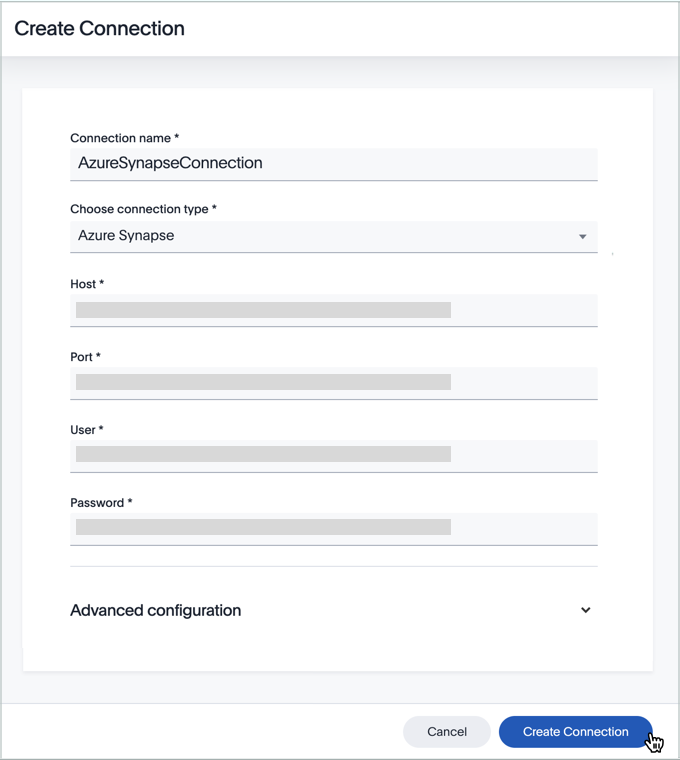
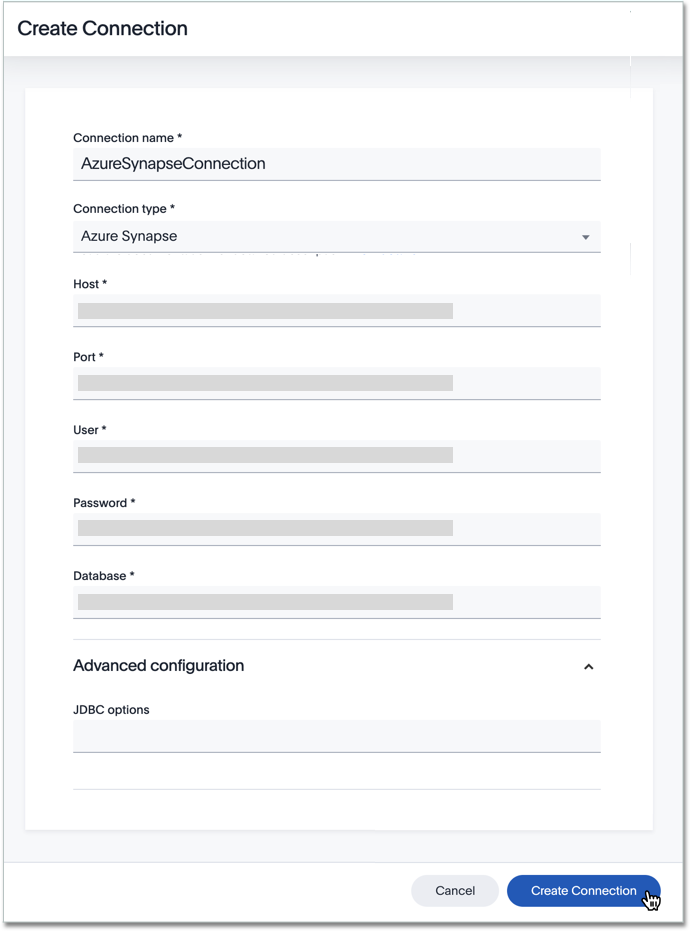
SCAL-62522 update azure synapse connections

diff --git a/_data-integrate/dataflow/dataflow-azure-synapse-reference.md b/_data-integrate/dataflow/dataflow-azure-synapse-reference.md
@@ -26,8 +26,9 @@ Here is a list of the fields for an Azure Synapse connection in ThoughtSpot Data
 <dl id="dataflow-azure-synapse-sync-properties">
 <dlentry id="dataflow-azure-synapse-sync-data-extraction-mode"><dt>Data extraction mode</dt><dd id="data-extraction-mode-description">Specify the extraction type.</dd><dd id="data-extraction-mode-required">Mandatory field.</dd><dd id="data-extraction-mode-example"><strong>Example:</strong><br/>BCP</dd><dd id="data-extraction-mode-valid-values"><strong>Valid Values:</strong><br/>JDBC, BCP</dd><dd id="data-extraction-mode-default"><strong>Default:</strong><br/>JDBC</dd></dlentry>
 <dlentry id="dataflow-azure-synapse-sync-column-delimiter"><dt>Column delimiter</dt><dd id="column-delimiter-description">Specify the column delimiter character.</dd><dd id="column-delimiter-required">Mandatory field.</dd><dd id="column-delimiter-example"><strong>Example:</strong><br/>, (comma)</dd><dd id="column-delimiter-valid-values"><strong>Valid Values:</strong><br/>Any character, (comma, semicolon) or a number. If using a number, system uses its ASCII value as delimiter.</dd><dd id="column-delimiter-default"><strong>Default:</strong><br/>, (comma)</dd></dlentry>
-<dlentry id="dataflow-azure-synapse-sync-null-value"><dt>Null value</dt><dd id="null-value-description">Specify the string literal that represents NULL on the source. When loading data, the system replaces this with NULL.</dd><dd id="null-value-required">Optional field.</dd><dd id="null-value-example"><strong>Example:</strong><br/>NULL</dd><dd id="null-value-valid-values"><strong>Valid Values:</strong><br/>Any string literal</dd><dd id="null-value-default"><strong>Default:</strong><br/>NULL</dd></dlentry>
+<dlentry id="dataflow-azure-synapse-sync-null-value"><dt>Null value</dt><dd id="null-value-description">Specify the string literal that represents NULL on the source. When loading data, the system replaces this with NULL.</dd><dd id="null-value-required">Optional field.<br/>Available only when <strong>Data extraction mode</strong> is <em>BCP</em>.</dd><dd id="null-value-example"><strong>Example:</strong><br/>NULL</dd><dd id="null-value-valid-values"><strong>Valid Values:</strong><br/>Any string literal</dd><dd id="null-value-default"><strong>Default:</strong><br/>NULL</dd></dlentry>
 <dlentry id="dataflow-azure-synapse-sync-enclosing-character"><dt>Enclosing character</dt><dd id="enclosing-character-description">Specify if text columns in the source data are enclosed in quotes; if yes, single quotes or double quoates.</dd><dd id="enclosing-character-required">Optional field.</dd><dd id="enclosing-character-example"><strong>Example:</strong><br/>Double</dd><dd id="enclosing-character-valid-values"><strong>Valid Values:</strong><br/>Single, Double</dd><dd id="enclosing-character-default"><strong>Default:</strong><br/>Double</dd><dd id="enclosing-character-other"><strong>Other notes:</strong><br/>Required if text data uses newline character or delimiter character.</dd></dlentry>
 <dlentry id="dataflow-azure-synapse-sync-escape-character"><dt>Escape character</dt><dd id="escape-character-description">Specify this character to escpate text qualifiers in source data.</dd><dd id="escape-character-required">Optional field.</dd><dd id="escape-character-example"><strong>Example:</strong><br/>\"</dd><dd id="escape-character-valid-values"><strong>Valid Values:</strong><br/>Any ASCII character</dd><dd id="escape-character-default"><strong>Default:</strong><br/>\"</dd></dlentry>
-<dlentry id="dataflow-azure-synapse-sync-fetch-size"><dt>Fetch size</dt><dd id="fetch-size-description">Specify the number of rows fetched into memory at the same time. If the value is 0, system fetches all rows at the same time.</dd><dd id="fetch-size-required">Mandatory field.</dd><dd id="fetch-size-example"><strong>Example:</strong><br/>1000</dd><dd id="fetch-size-valid-values"><strong>Valid Values:</strong><br/>Any numeric value</dd><dd id="fetch-size-default"><strong>Default:</strong><br/>1000</dd></dlentry>
-<dlentry id="dataflow-azure-synapse-sync-ts-load-options"><dt>TS load options</dt><dd id="ts-load-options-description">Specify additional parameters passed with the <code>tsload</code> command. The format for these parameters is:<br/><code>--&lt;param_1_name&gt; &lt;optional_param_1_value&gt;</code></dd><dd id="ts-load-options-required">Optional field.</dd><dd id="ts-load-options-example"><strong>Example:</strong><br/><code>--max_ignored_rows 0</code></dd><dd id="ts-load-options-valid-values"><strong>Valid Values:</strong><br/><br/><code> --null_value ""</code><br/><code> --escape_character ""</code><br/><code> --max_ignored_rows 0</code></dd><dd id="ts-load-options-default"><strong>Default:</strong><br/><code> --max_ignored_rows 0</code></dd></dlentry></dl>
+<dlentry id="dataflow-azure-synapse-sync-fetch-size"><dt>Fetch size</dt><dd id="fetch-size-description">Specify the number of rows fetched into memory at the same time. If the value is 0, system fetches all rows at the same time.</dd><dd id="fetch-size-required">Mandatory field.<br/>Available only when <strong>Data extraction mode</strong> is <em>JDBC</em>.</dd><dd id="fetch-size-example"><strong>Example:</strong><br/>1000</dd><dd id="fetch-size-valid-values"><strong>Valid Values:</strong><br/>Any numeric value</dd><dd id="fetch-size-default"><strong>Default:</strong><br/>1000</dd></dlentry>
+<dlentry id="dataflow-azure-synapse-sync-ts-load-options"><dt>TS load options</dt><dd id="ts-load-options-description">Specify additional parameters passed with the <code>tsload</code> command. The format for these parameters is:<br/><code>--&lt;param_1_name&gt; &lt;optional_param_1_value&gt;</code></dd><dd id="ts-load-options-required">Optional field.</dd><dd id="ts-load-options-example"><strong>Example:</strong><br/><code>--max_ignored_rows 0</code></dd><dd id="ts-load-options-valid-values"><strong>Valid Values:</strong><br/><br/><code> --null_value ""</code><br/><code> --escape_character ""</code><br/><code> --max_ignored_rows 0</code></dd><dd id="ts-load-options-default"><strong>Default:</strong><br/><code> --max_ignored_rows 0</code></dd></dlentry>
+</dl>

diff --git a/_data-integrate/dataflow/dataflow-azure-synapse-sync.md b/_data-integrate/dataflow/dataflow-azure-synapse-sync.md
@@ -9,19 +9,19 @@ After using ThoughtSpot DataFlow to establish a connection to an Azure Synapse d
 
 {% include content/dataflow/sync-for-databases.md %}
 
-4. Specify the sync properties for AzureSynapse:
+4. Specify the sync properties for Azure Synapse:
 
-   ![Enter connection details]({{ site.baseurl }}/images/dataflow-set-sync-properties-draft.png "Enter connection details")
+   ![Enter sync details]({{ site.baseurl }}/images/dataflow-set-sync-properties-draft.png "Enter sync details")
 
-   <!--![Enter connection details]({{ site.baseurl }}/images/dataflow-azure-synapse-create.png "Enter connection details")-->
+   <!--![Enter sync details]({{ site.baseurl }}/images/dataflow-azure-synapse-sync.png "Enter sync details")-->
 
    * [Data extraction mode]({{ site.baseurl }}/data-integrate/dataflow/dataflow-azure-synapse-reference.html#dataflow-azure-synapse-sync-data-extraction-mode)<br/>Specify the extraction type.<br/>Mandatory field.
    * [Column delimiter]({{ site.baseurl }}/data-integrate/dataflow/dataflow-azure-synapse-reference.html#dataflow-azure-synapse-sync-column-delimiter)<br/>Specify the column delimiter character.<br/>Mandatory field.
-   * [Null value]({{ site.baseurl }}/data-integrate/dataflow/dataflow-azure-synapse-reference.html#dataflow-azure-synapse-sync-null-value)<br/>Specify the string literal that represents NULL on the source. When loading data, the system replaces this with NULL.<br/>Optional field.
+   * [Null value]({{ site.baseurl }}/data-integrate/dataflow/dataflow-azure-synapse-reference.html#dataflow-azure-synapse-sync-null-value)<br/>Specify the string literal that represents NULL on the source. When loading data, the system replaces this with NULL.<br/>Optional field. Available only when <strong>Data extraction mode</strong> is <em>BCP</em>.
    * [Enclosing character]({{ site.baseurl }}/data-integrate/dataflow/dataflow-azure-synapse-reference.html#dataflow-azure-synapse-sync-enclosing-character)<br/>Specify if text columns in the source data are enclosed in quotes; if yes, single quotes or double quoates.<br/>Optional field.
    * [Escape character]({{ site.baseurl }}/data-integrate/dataflow/dataflow-azure-synapse-reference.html#dataflow-azure-synapse-sync-escape-character)<br/>Specify this character to escpate text qualifiers in source data.<br/>Optional field.
-   * [Fetch size]({{ site.baseurl }}/data-integrate/dataflow/dataflow-azure-synapse-reference.html#dataflow-azure-synapse-sync-fetch-size)<br/>Specify the number of rows fetched into memory at the same time. If the value is 0, system fetches all rows at the same time.<br/>Mandatory field.
-   * [TS load options]({{ site.baseurl }}/data-integrate/dataflow/dataflow-azure-synapse-reference.html#dataflow-azure-synapse-sync-ts-load-options)<br/>Specify additional parameters passed with the <code>tsload</code> command. The format for these parameters is:<br/><code>--&lt;param_1_name&gt; &lt;optional_param_1_value&gt;</code><br/>Optional field.
+   * [Fetch size]({{ site.baseurl }}/data-integrate/dataflow/dataflow-azure-synapse-reference.html#dataflow-azure-synapse-sync-fetch-size)<br/>Specify the number of rows fetched into memory at the same time. If the value is 0, system fetches all rows at the same time.<br/>Mandatory field. Available only when <strong>Data extraction mode</strong> is <em>JDBC</em>.
+   * [TS load options]({{ site.baseurl }}/data-integrate/dataflow/dataflow-azure-synapse-reference.html#dataflow-azure-synapse-sync-ts-load-options)<br/>Specify additional parameters passed with the <code>tsload</code> command. The format for these parameters is:<br/><code>--&lt;param_1_name&gt; &lt;optional_param_1_value&gt;</code><br/>Optional field. 
 
 5. Save your work by clicking **Save**.<br/>Alternatively, click **Save and sync now** to save your work and sync data at the same time.
 

diff --git a/_data-integrate/dataflow/dataflow-azure-synapse-add.md b/_data-integrate/dataflow/dataflow-azure-synapse-add.md
@@ -1,6 +1,6 @@
 ---
 title: [Add an Azure Synapse connection]
-last_updated: 6/21/2020
+last_updated: 7/03/2020
 toc: true
 sidebar: mydoc_sidebar
 permalink: /:collection/:path.html
@@ -13,7 +13,11 @@ To add a new connection to Azure Synapse, follow these steps:
 
 4. After you select the Azure Synapse **Connection type**, the rest of the connection properties appear.
 
-   ![Enter connection details]({{ site.baseurl }}/images/dataflow-azure-synapse-create.png "Enter connection details")
+  <details>
+     <summary>Create connection interface for Azure Synapse</summary>
+     <p>
+       <img src="../../images/dataflow-azure-synapse-create.png" alt="Create Azure Synapse connection" /></p>
+  </details>  
 
    * [Connection name]({{ site.baseurl }}/data-integrate/dataflow/dataflow-azure-synapse-reference.html#dataflow-azure-synapse-conn-connection-name)<br/>Name your connection.<br/>Mandatory field.
    * [Connection type]({{ site.baseurl }}/data-integrate/dataflow/dataflow-azure-synapse-reference.html#dataflow-azure-synapse-conn-connection-type)<br/>Choose the Azure Synapse connection type.<br/>Mandatory field.
@@ -22,6 +26,7 @@ To add a new connection to Azure Synapse, follow these steps:
    * [User]({{ site.baseurl }}/data-integrate/dataflow/dataflow-azure-synapse-reference.html#dataflow-azure-synapse-conn-user)<br/>Specify the user who connects to Azure Synapse. This user must have data access privileges.<br/>Mandatory field.
    * [Password]({{ site.baseurl }}/data-integrate/dataflow/dataflow-azure-synapse-reference.html#dataflow-azure-synapse-conn-password)<br/>Specify the password.<br/>Mandatory field.
    * [JDBC options]({{ site.baseurl }}/data-integrate/dataflow/dataflow-azure-synapse-reference.html#dataflow-azure-synapse-conn-jdbc-options)<br/>Specify JDBC URL for connecting to Azure Synapse, and the neccessary options.<br/>Optional field.
+   * [Database]({{ site.baseurl }}/data-integrate/dataflow/dataflow-azure-synapse-reference.html#dataflow-azure-synapse-conn-database)<br/>Specify Database details like name, alias name, schema.<br/>Mandatory field.
 
 
    See [Connection properties]({{ site.baseurl }}/data-integrate/dataflow/dataflow-azure-synapse-reference.html#connection-properties).

diff --git a/_data-integrate/dataflow/dataflow-azure-synapse.md b/_data-integrate/dataflow/dataflow-azure-synapse.md
@@ -9,7 +9,6 @@ DataFlow enables you to connect to Azure Synapse database, to use your data in T
 
 - [Add a connection]({{ site.baseurl }}/data-integrate/dataflow/dataflow-azure-synapse-add.html)
 - [Sync data]({{ site.baseurl }}/data-integrate/dataflow/dataflow-azure-synapse-sync.html)
-- [Best practices]({{ site.baseurl }}/data-integrate/dataflow/dataflow-azure-synapse-best.html)
 - [Reference]({{ site.baseurl }}/data-integrate/dataflow/dataflow-azure-synapse-reference.html)
 
 <!--
